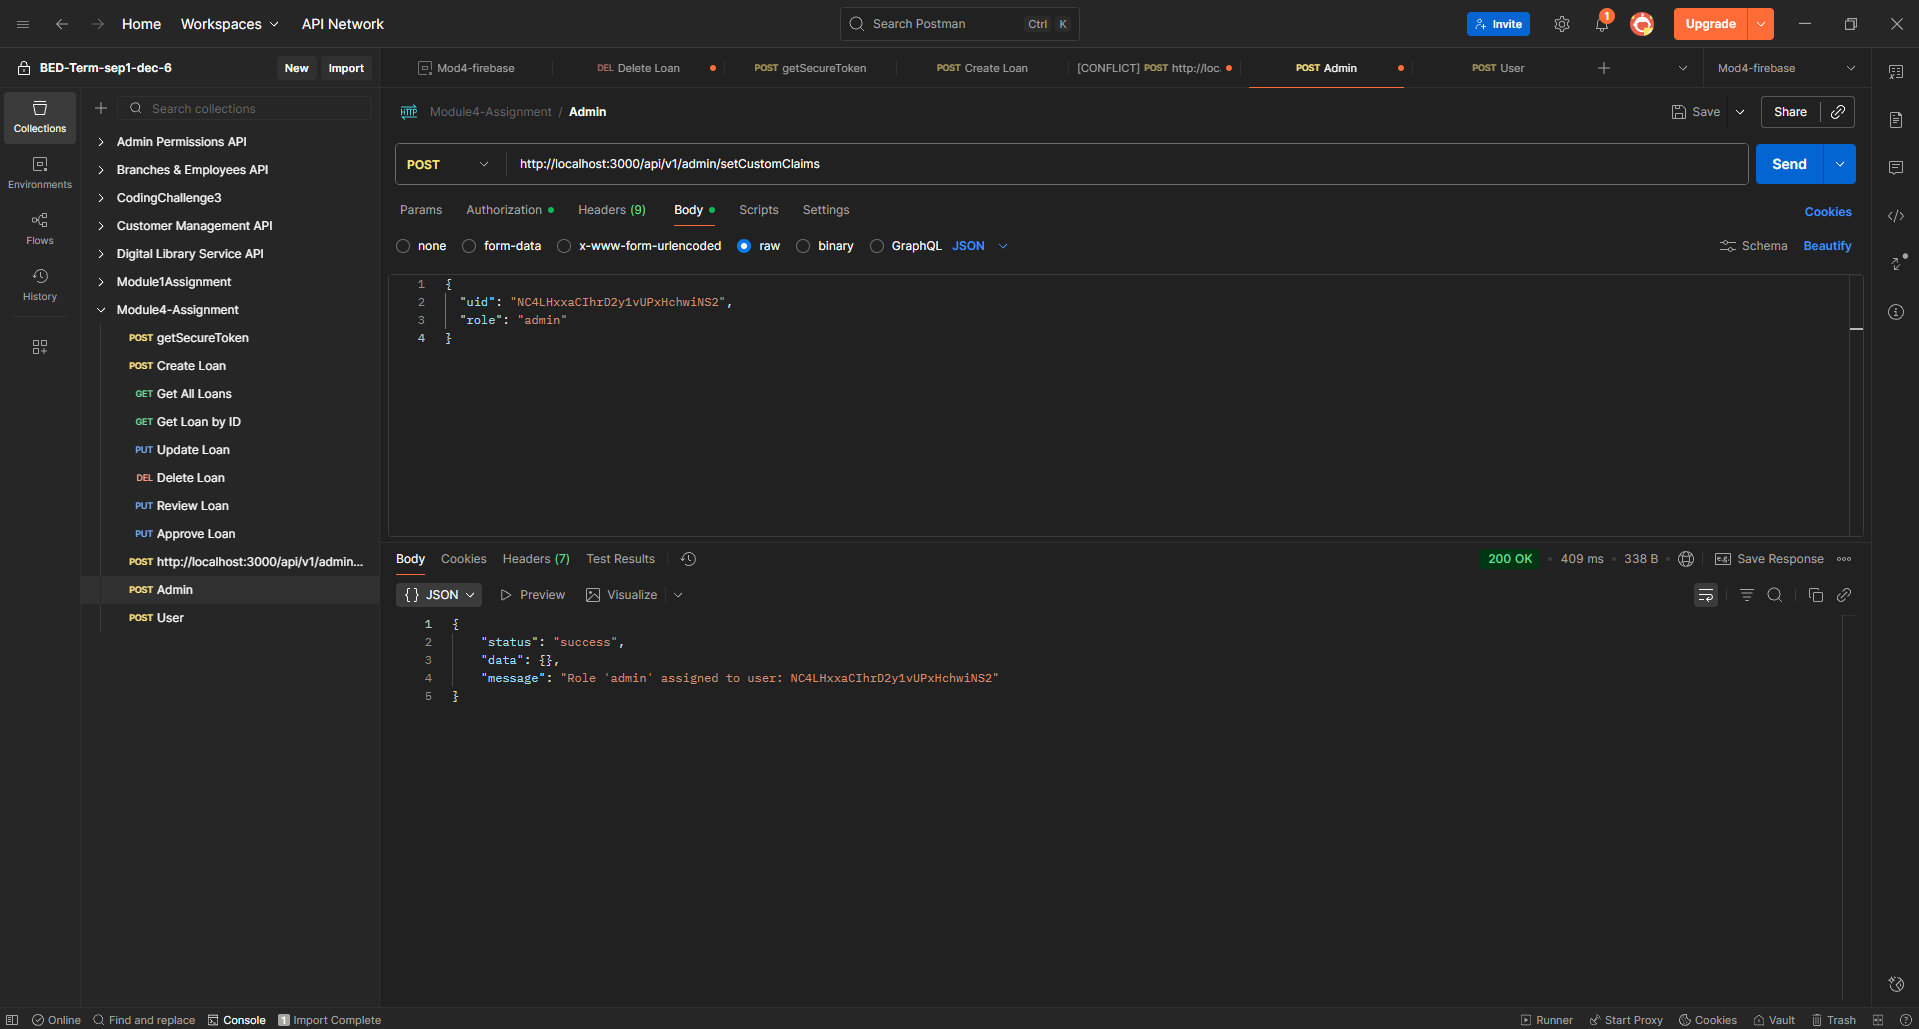
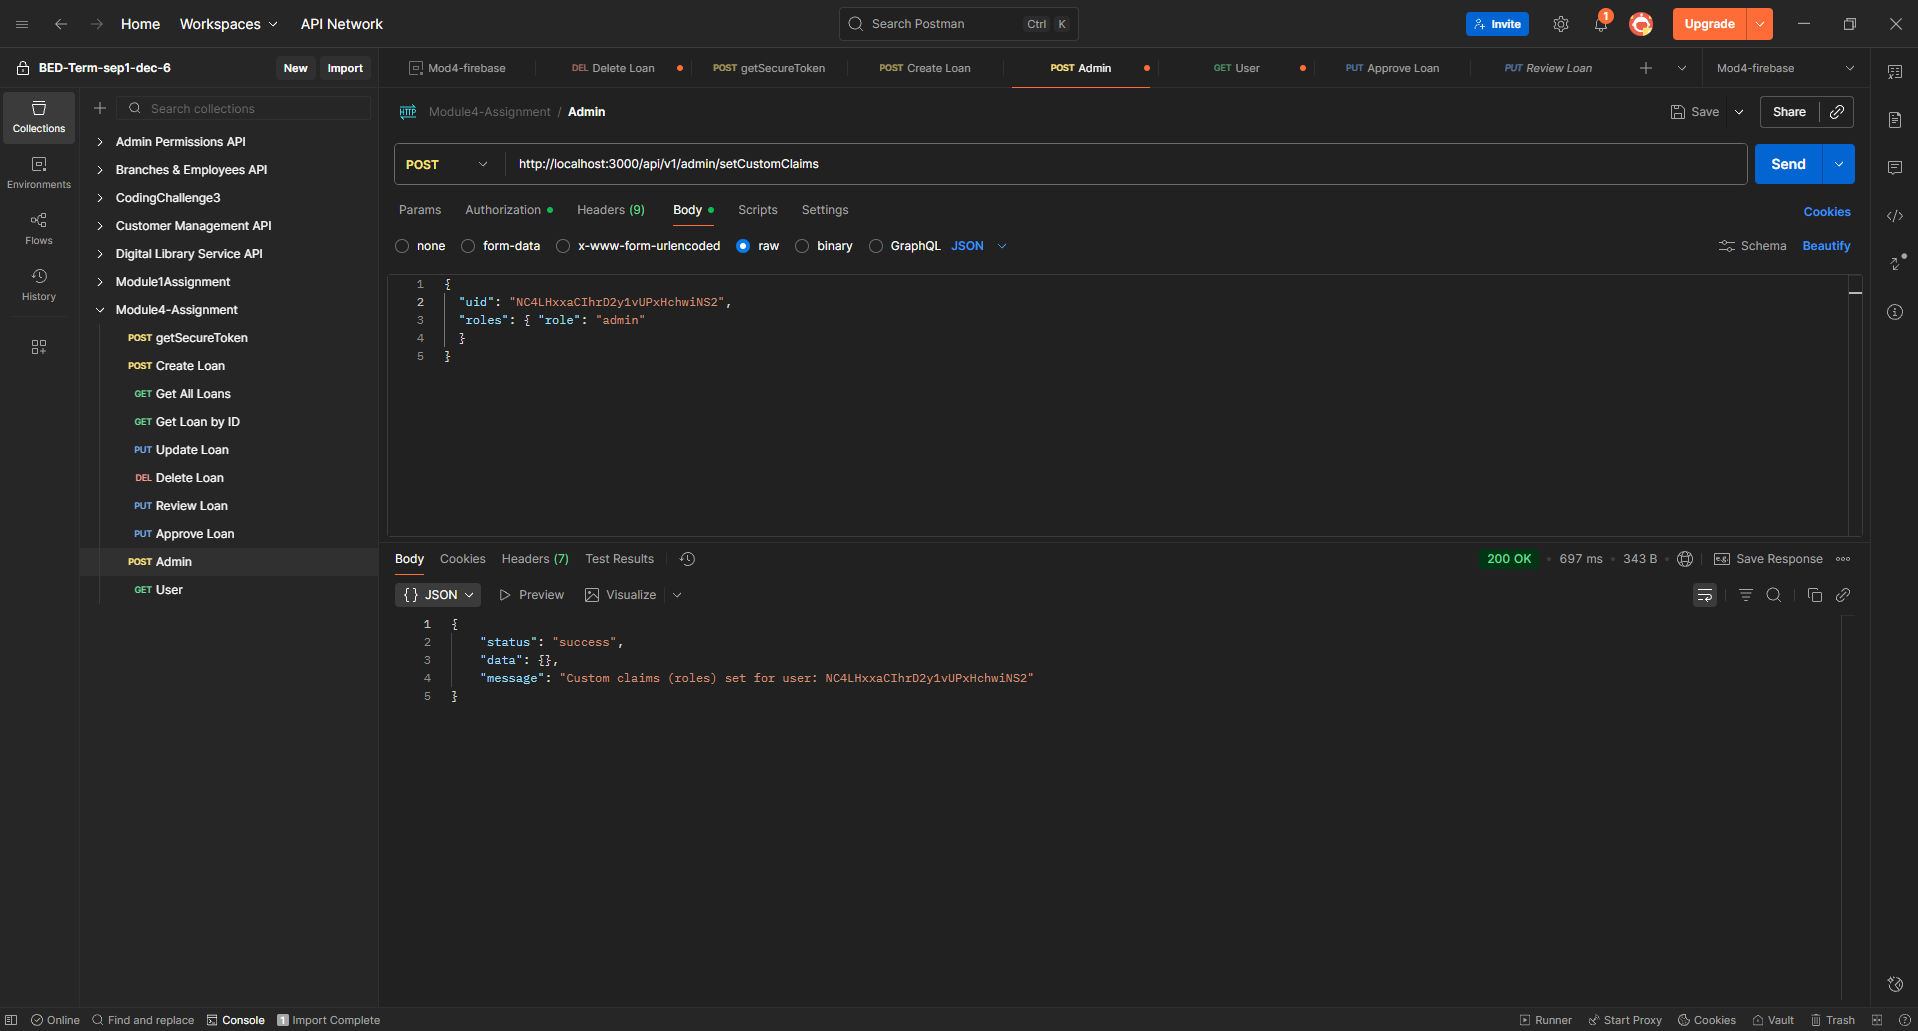
Add: more testing evidence ready for final push

diff --git a/src/api/v1/models/authorizationOptions.ts b/src/api/v1/models/authorizationOptions.ts
@@ -4,6 +4,6 @@
  * @example { hasRole: ["admin", "manager"], allowSameUser: true } as AuthorizationOptions
  */
 export interface AuthorizationOptions {
-    hasRole: Array<"admin" | "manager" | "user" | "officer">;
+    hasRole: Array<"admin" | "officer" | "manager" | "user">;
     allowSameUser?: boolean;
 }

diff --git a/src/api/v1/routes/loanRoutes.ts b/src/api/v1/routes/loanRoutes.ts
@@ -35,7 +35,7 @@ router.delete(
 router.put(
     "/:id/review",
     authenticate,
-    isAuthorized({ hasRole: ["officer"] } as AuthorizationOptions),
+    isAuthorized({ hasRole: ["officer"], allowSameUser: true } as AuthorizationOptions),
     loanController.reviewLoan
 );
 
